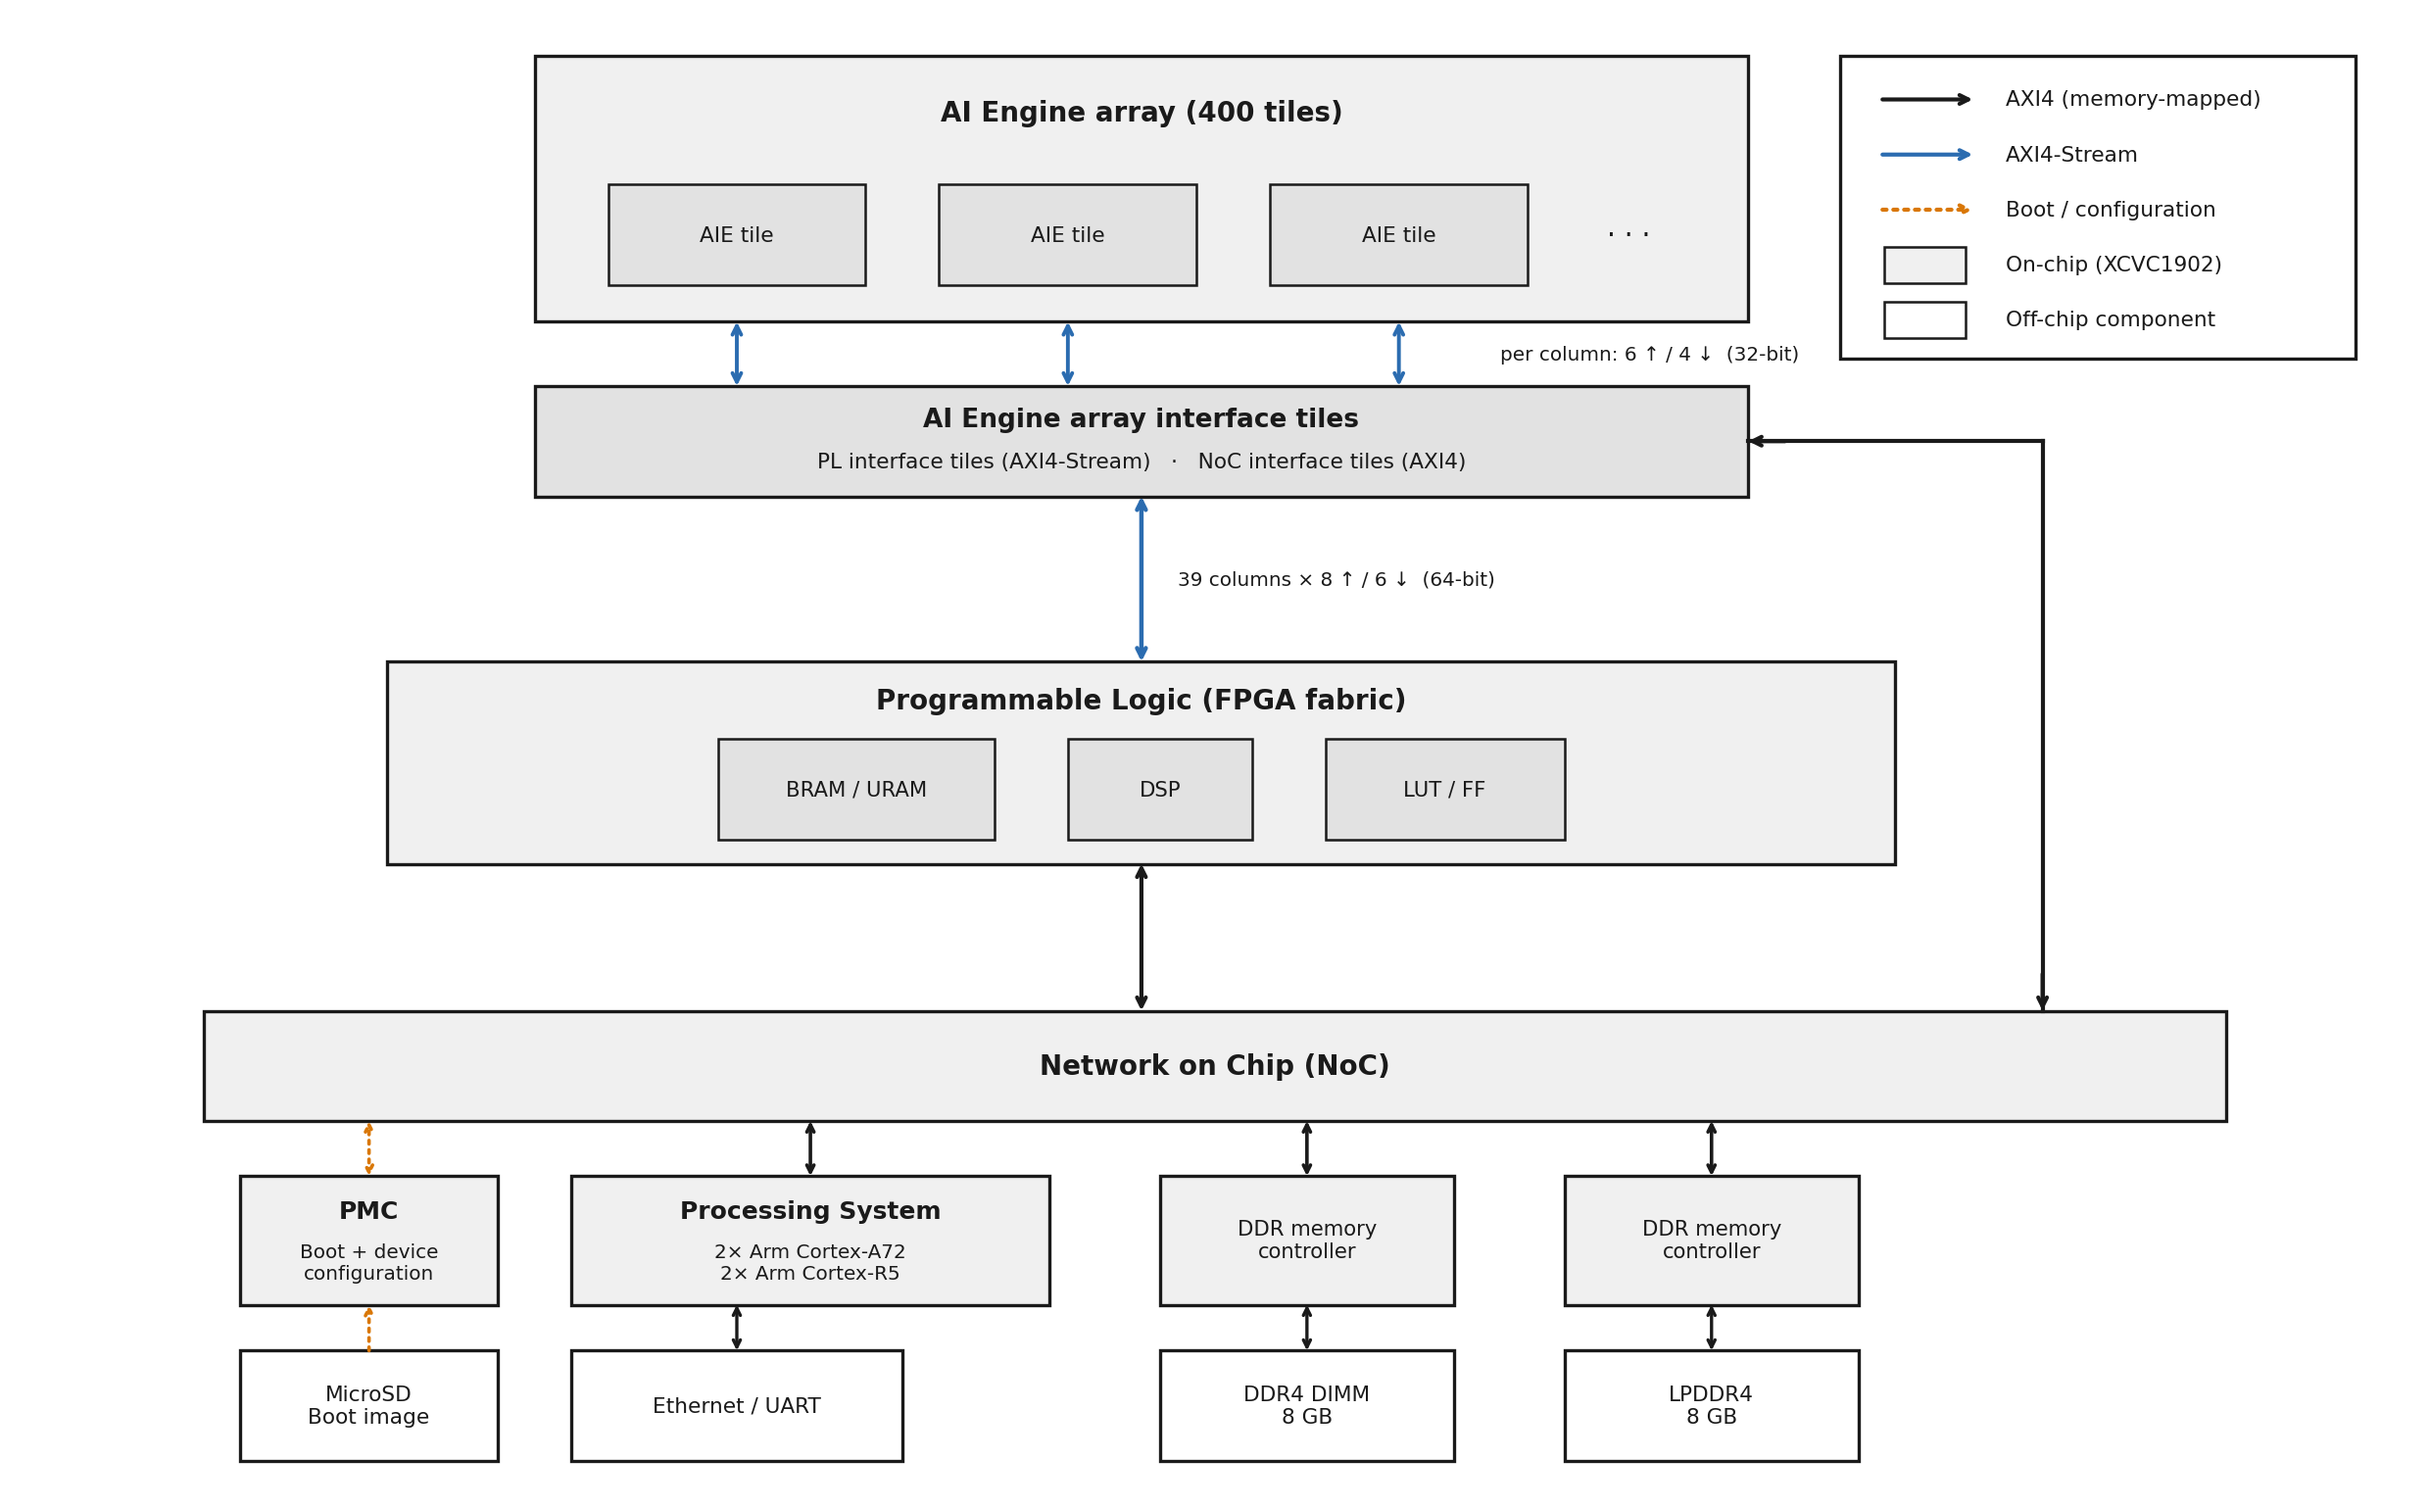
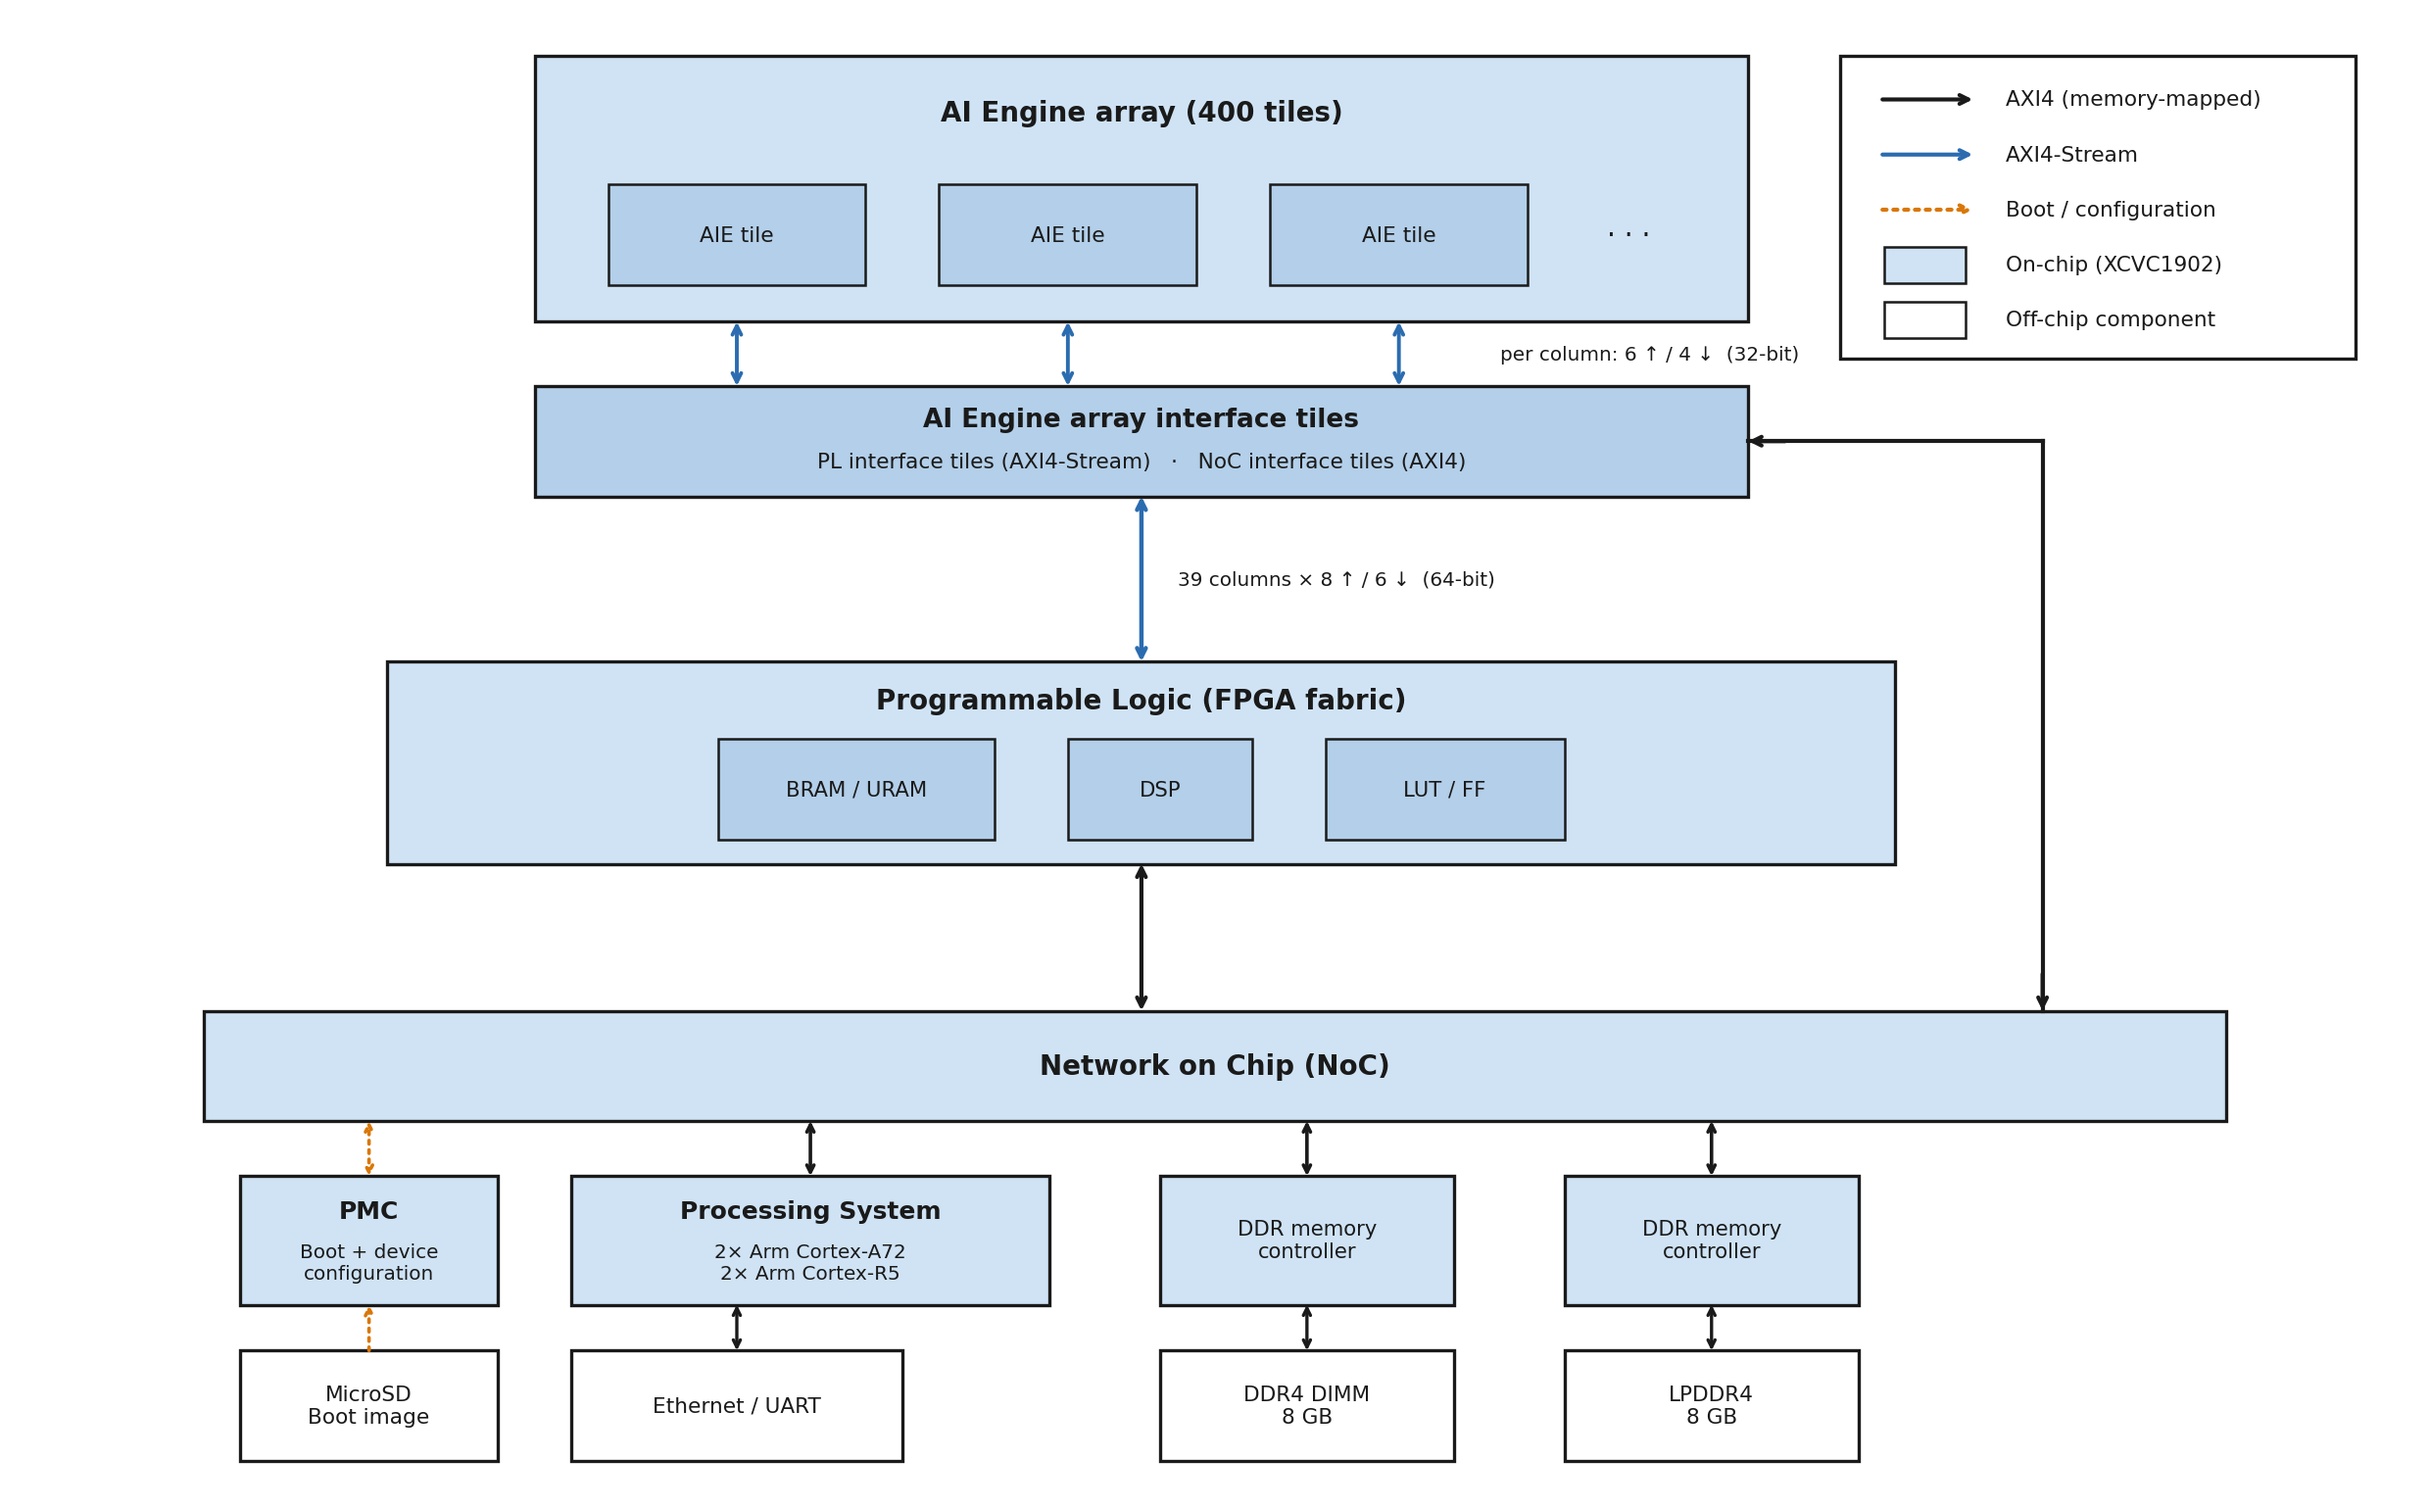
schematic: on-chip fills in the light-blue family
Containers light blue, sub-blocks a step darker; off-chip stays white.

diff --git a/scripts/make_vck190_schematic.py b/scripts/make_vck190_schematic.py
@@ -15,8 +15,8 @@ matplotlib.use("Agg")
 import matplotlib.pyplot as plt
 from matplotlib.patches import Rectangle, FancyArrowPatch
 
-ONCHIP  = "#f0f0f0"
-ONCHIP2 = "#e2e2e2"   # on-chip sub-blocks
+ONCHIP  = "#cfe3f5"
+ONCHIP2 = "#b3cfe9"   # on-chip sub-blocks
 BLACK   = "#1a1a1a"
 BLUE    = "#2b6cb0"
 ORANGE  = "#d97706"
